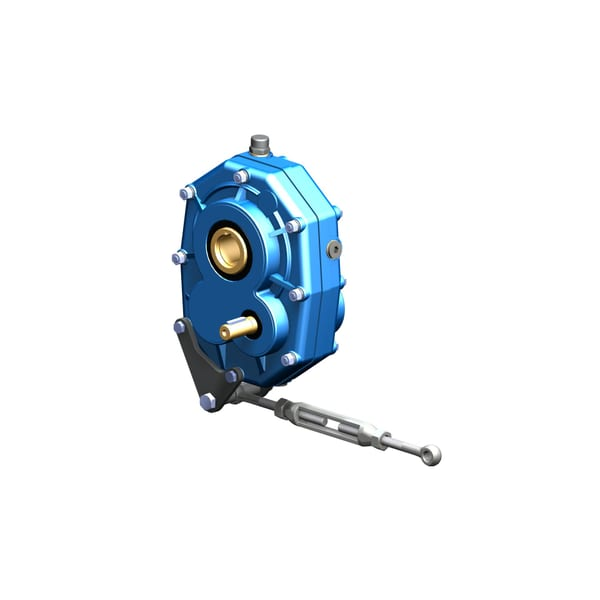
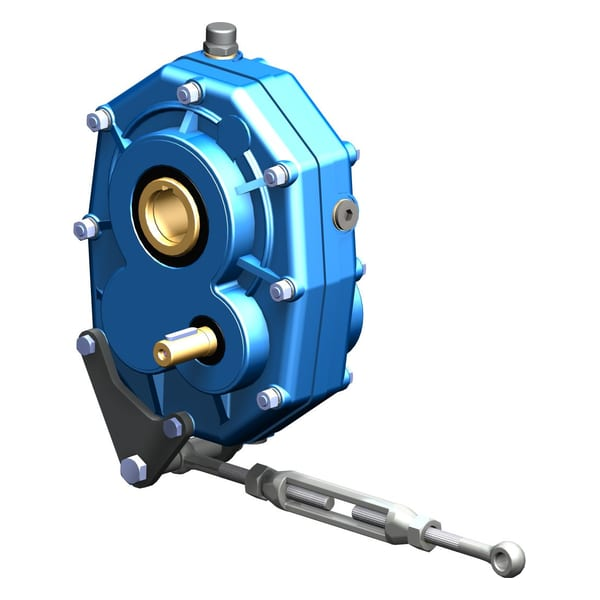
fix(products): crop white margin from OCR RP tile image so the reducer fills the tile

Changed region(s): [[0.12, 0.03, 0.9, 0.96]]

diff --git a/scripts/build-product-images.js b/scripts/build-product-images.js
@@ -12,7 +12,10 @@ const SIZES = [85, 105, 125, 150, 165, 180, 210, 250];
 const jobs = [
   {
     name: 'tile', src: 'pics/IMMAGINE-RP85.jpg', jpg: true,
-    make: (s) => s.resize(600, 600, { fit: 'contain', background: '#ffffff' }).flatten({ background: '#ffffff' })
+    // trim the source's white margin so the product fills the tile, then keep a 22px frame
+    make: (s) => s.flatten({ background: '#ffffff' }).trim({ background: '#ffffff', threshold: 12 })
+      .resize(556, 556, { fit: 'contain', background: '#ffffff' })
+      .extend({ top: 22, bottom: 22, left: 22, right: 22, background: '#ffffff' })
   },
   {
     name: 'hero', src: 'pics/P1101652.jpg.jpeg', jpg: true,
